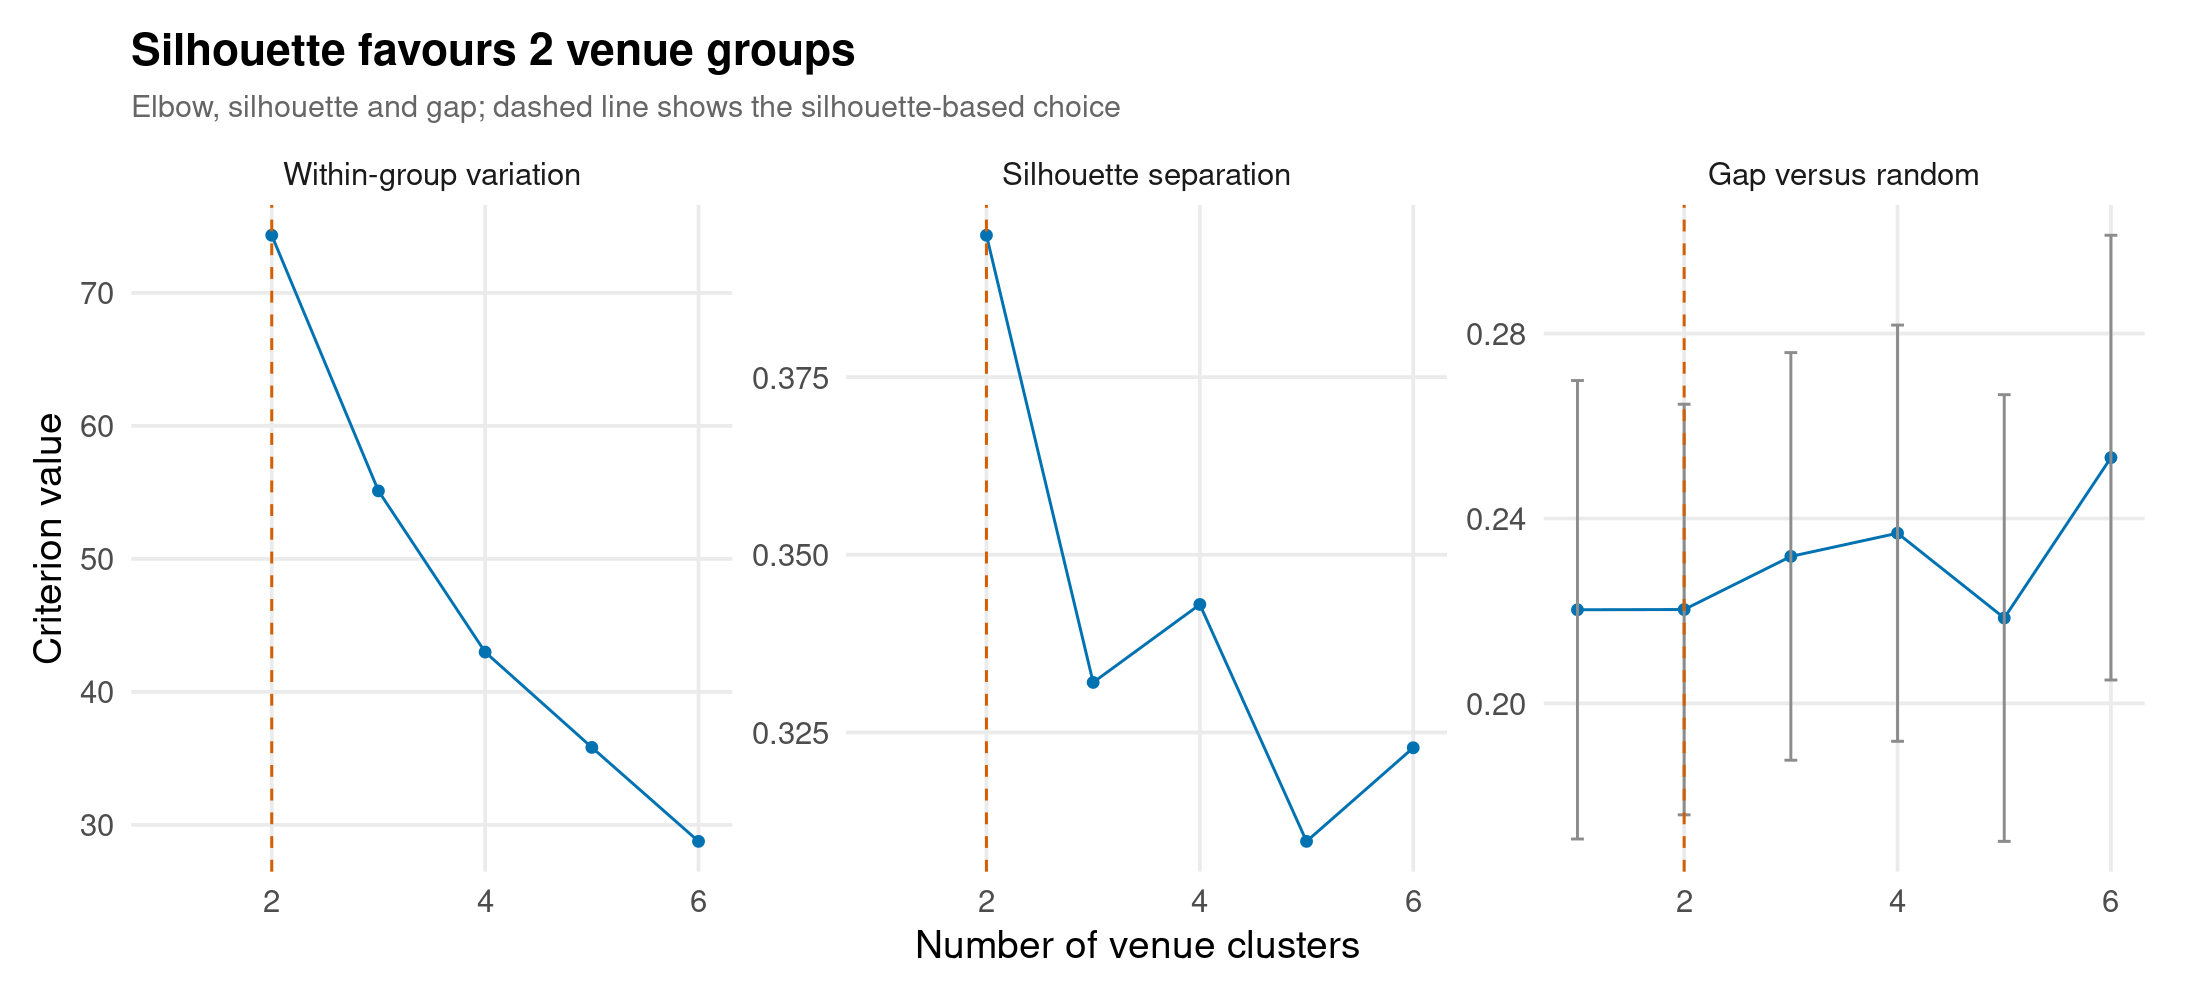
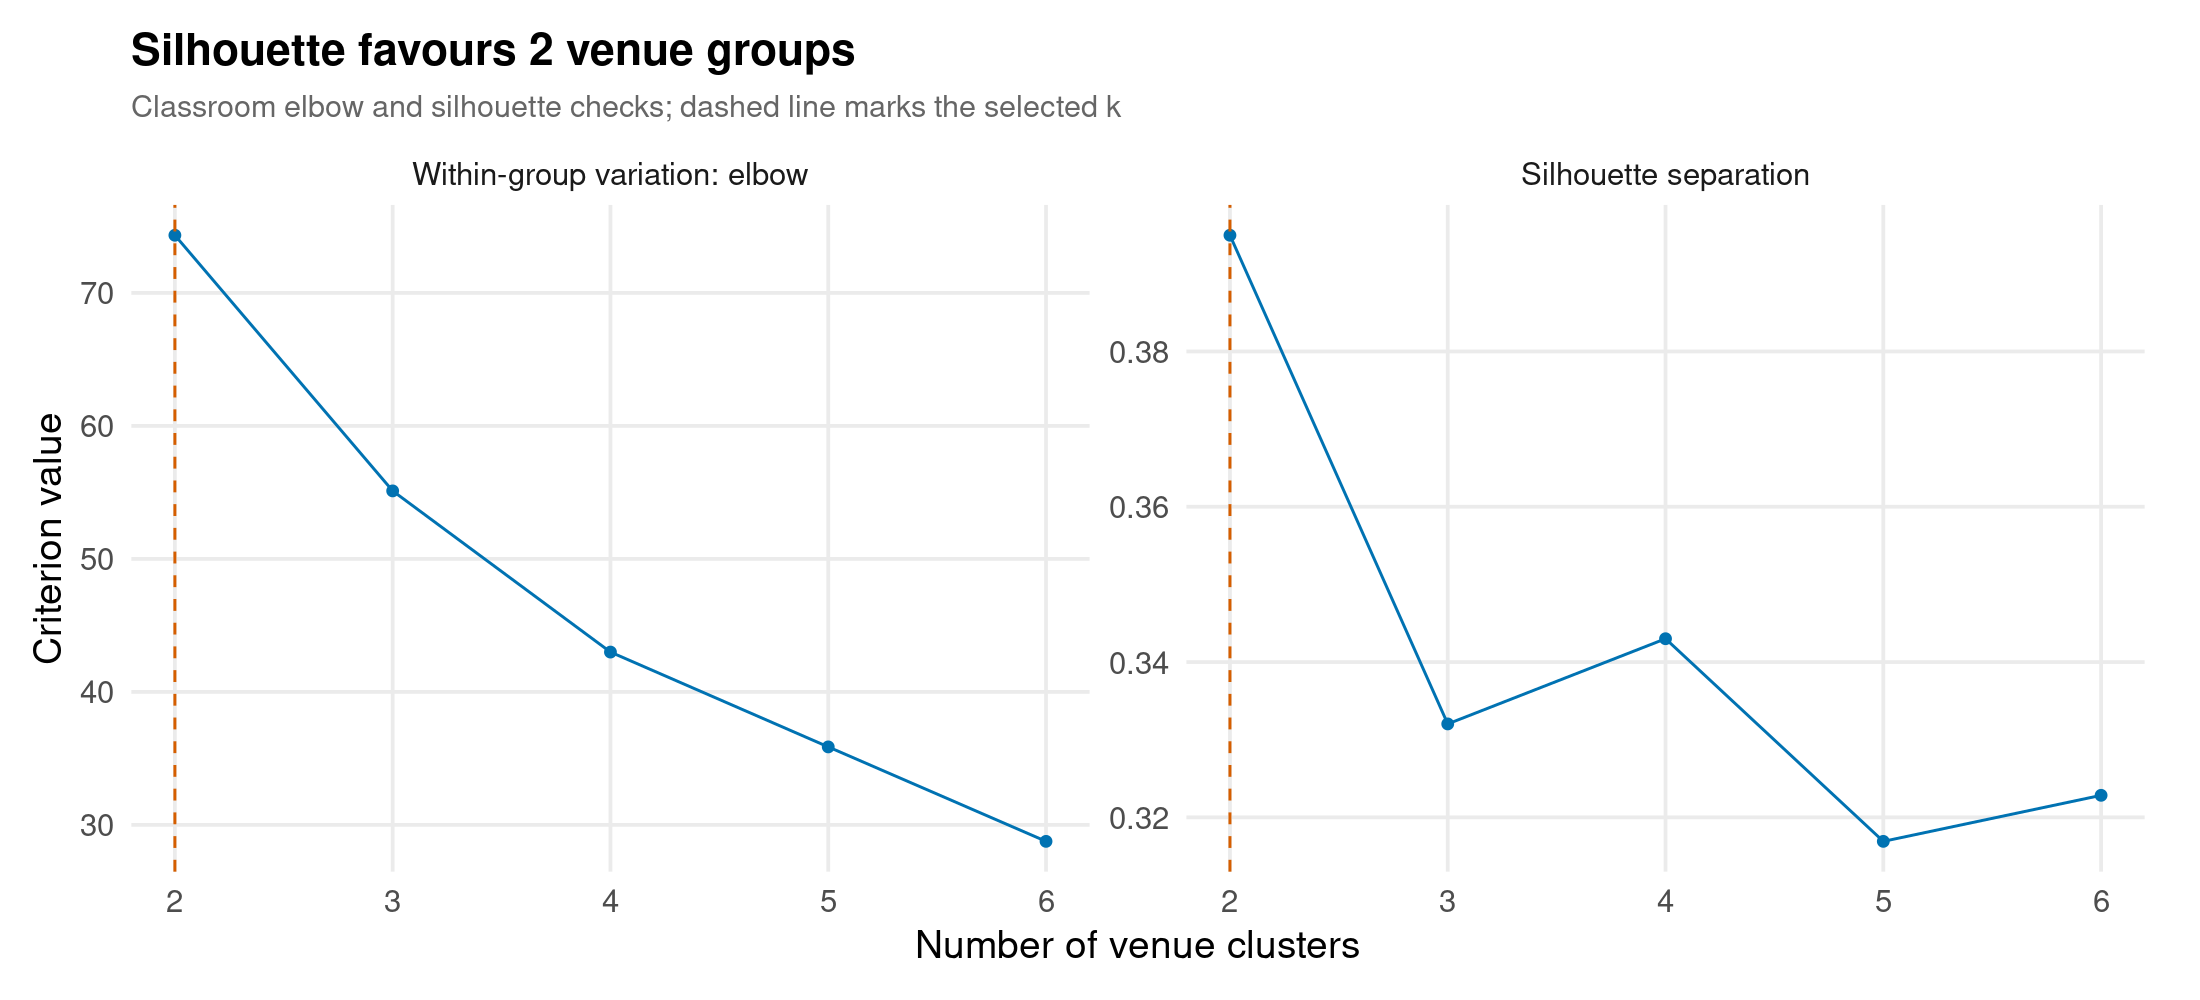
Phase 6: follow classroom linkage and k-means examples

diff --git a/ipl-study1-innings-total/RESULTS.md b/ipl-study1-innings-total/RESULTS.md
@@ -259,33 +259,52 @@ What I learned: PCA summarises total variation; FA models shared variation plus 
 
 Open questions: Does compressing inputs retain useful predictive information?
 
-## Phase 6: Venue clustering
+## Phase 6: Course-aligned venue clustering
 
 cluster_summary:
 
 
 
-|  k| adjusted_rand_index| silhouette| gap_recommended|
-|--:|-------------------:|----------:|---------------:|
-|  2|                   1|      0.395|               1|
+|  k| silhouette|main_linkage | random_starts|
+|--:|----------:|:------------|-------------:|
+|  2|      0.395|average      |            25|
 
 cluster_selection:
 
 
 
-|  k| within_ss| silhouette|   gap| gap_se|
-|--:|---------:|----------:|-----:|------:|
-|  2|    74.336|      0.395| 0.220|  0.044|
-|  3|    55.113|      0.332| 0.232|  0.044|
-|  4|    42.993|      0.343| 0.237|  0.045|
-|  5|    35.824|      0.310| 0.218|  0.048|
-|  6|    28.760|      0.323| 0.253|  0.048|
+|  k| within_ss| silhouette|
+|--:|---------:|----------:|
+|  2|    74.336|      0.395|
+|  3|    55.113|      0.332|
+|  4|    42.993|      0.343|
+|  5|    35.863|      0.317|
+|  6|    28.760|      0.323|
 
-Figures f16–f18 show cluster selection, algorithm agreement and profiles. Test outcomes play no part in fitting or assigning groups.
+cluster_membership_tables:
 
-What I learned: Clustering groups similar measurements without using prediction labels.
 
-Open questions: Which innings exert disproportionate influence on regression?
+
+|linkage  |kmeans         | hierarchical| Freq|
+|:--------|:--------------|------------:|----:|
+|single   |Higher scoring |            1|   24|
+|single   |Lower scoring  |            1|   11|
+|single   |Higher scoring |            2|    0|
+|single   |Lower scoring  |            2|    1|
+|complete |Higher scoring |            1|   24|
+|complete |Lower scoring  |            1|    0|
+|complete |Higher scoring |            2|    0|
+|complete |Lower scoring  |            2|   12|
+|average  |Higher scoring |            1|   24|
+|average  |Lower scoring  |            1|    0|
+|average  |Higher scoring |            2|    0|
+|average  |Lower scoring  |            2|   12|
+
+Figures f16–f18 show selection, the average-linkage tree and venue group profiles. All learned profiles and centres use training seasons.
+
+What I learned: Clustering groups observations, while PCA and FA summarise variables.
+
+Open questions: Do the venue groups improve validation forecasts?
 
 ## Phase 7: Influence and unequal variance
 

diff --git a/ipl-study1-innings-total/DECISIONS.md b/ipl-study1-innings-total/DECISIONS.md
@@ -197,3 +197,13 @@ Decision: Use principal unrotated unit-variance scores, verify against prcomp, a
 Rationale: These calls and the score construction match PCA class.R and FA.R.  
 Consequences or risks: Loadings and score weights differ. Factor scores are estimates; varimax factor orthogonality does not guarantee orthogonal estimated scores. Boundary solutions are reported.  
 Status: active
+
+## D-021
+Date: 2026-10-11  
+Phase: 6  
+Context: Venue clustering must match the supplied class scripts.  
+Options considered: Keep the earlier choices; compare the linkage and k-means methods taught in class.  
+Decision: Use scaled Euclidean profiles, single/complete/average linkage, k-means with the classroom random-start count, elbow and maximum silhouette. Compare memberships with tables. Supersedes D-011.  
+Rationale: These procedures appear in CA.R, cluster analysis.txt and the Utilities example.  
+Consequences or risks: Clusters are descriptive. Small venue histories influence profiles; unseen venues retain the frozen-centre fallback.  
+Status: active
